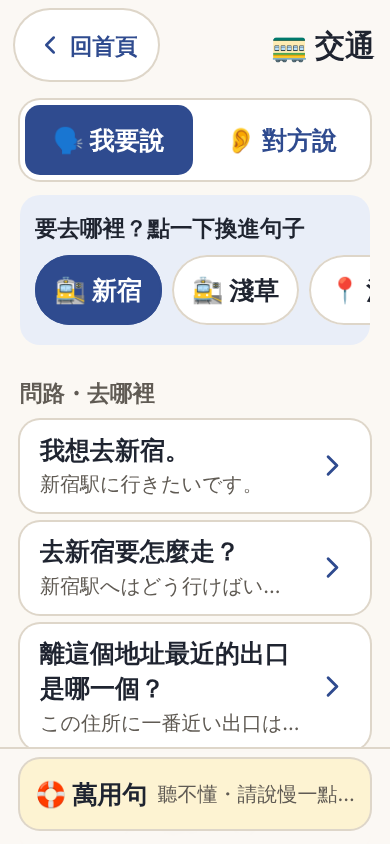
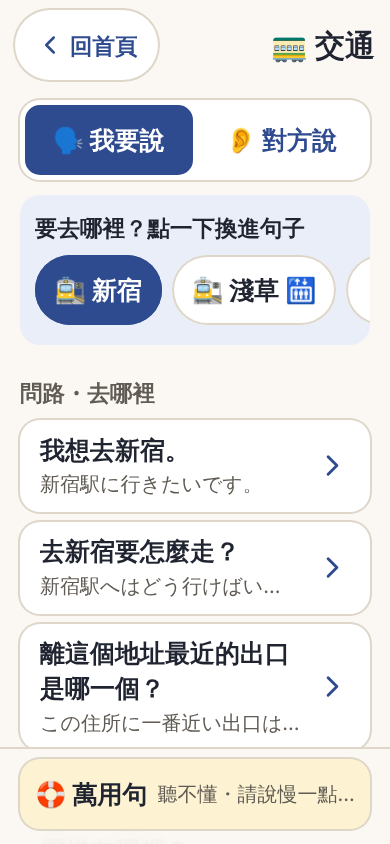
Elevator phrases and per-station elevator notes
Station elevator maps were weighed and set aside: the data is spread
across operators' Japanese-only pages with no usable open dataset, goes
stale as lifts are added or closed, station plans are hard to read, and
Google Maps already offers wheelchair routes. Instead:

1. Transport gains an 電梯・不走樓梯 group: which exit has a lift (a new
   'exit' answer set: east/west/south/north/central, write it down,
   don't know), the lift to the platform, inside or outside the gates,
   ask staff to take you there; staff lines for 'outside the gates' and
   'out of service'.
2. Each place gets an elevator note (Place.note, wire key 'e'), filled in
   before the trip with tips on where to look it up. When that station
   is picked, the note shows under the picker and can be enlarged for
   station staff under a spoken 「エレベーターを使いたいです」.

Claude-Session: https://claude.ai/code/session_01FL5DYQMe9ZWzkevjtD88Bj

Changed region(s): [[0.7385, 0.3081, 0.9538, 0.4005], [0.7077, 0.3697, 0.7385, 0.4005], [0.7077, 0.2773, 0.7385, 0.3081]]

diff --git a/src/ui/setup.ts b/src/ui/setup.ts
@@ -179,6 +179,34 @@ function hotelRow(hotel: Hotel, save: () => void): HTMLElement[] {
   ];
 }
 
+/**
+ * 電梯筆記: looked up before the trip, shown on the transport page when the
+ * station is picked, and enlarged for station staff.
+ */
+function noteField(place: Place, save: () => void): HTMLElement {
+  const area = h("textarea", {
+    class: `${INPUT} h-28 resize-y`,
+    maxlength: LIMITS.long,
+    placeholder: "例：エレベーターはA3出口（改札外）。ホームへは3番線中央のエレベーター。",
+    oninput: (event: Event) => {
+      place.note = (event.target as HTMLTextAreaElement).value;
+      save();
+    },
+  });
+  area.value = place.note;
+  return h(
+    "label",
+    { class: "block text-lg font-bold" },
+    "🛗 電梯筆記（可不填）",
+    area,
+    h(
+      "span",
+      { class: `${HINT} font-normal` },
+      "哪個出口有電梯、在剪票口內還是外。直接貼上官方網站的日文說明最好，站務員也看得懂。",
+    ),
+  );
+}
+
 function placeRow(place: Place, index: number, save: () => void): HTMLElement[] {
   const name = `place-kind-${index}`;
   const kind = (value: Place["kind"], label: string) =>
@@ -204,6 +232,7 @@ function placeRow(place: Place, index: number, save: () => void): HTMLElement[] 
     field("讀音（可不填）", place.kana, (v) => ((place.kana = v), save()), { lang: "ja", placeholder: "例：しんじゅく" }),
     field("中文名稱", place.zh, (v) => ((place.zh = v), save()), { placeholder: "例：新宿" }),
     field("哪一天去（可不填）", place.date, (v) => ((place.date = v), save()), { type: "date", hint: "當天會排在最前面。" }),
+    noteField(place, save),
   ];
 }
 
@@ -335,7 +364,20 @@ export function renderSetup(root: HTMLElement): void {
     group(
       "places",
       h("p", { class: "text-lg text-muted" }, "「我想去〇〇站」「這班車有停〇〇嗎」會直接用這些名稱，不用打字。"),
-      listEditor({ items: profile.places, noun: "目的地", make: (): Place => ({ kind: "station", name: "", kana: "", zh: "", date: "" }), row: (place, i) => placeRow(place, i, save), onChange: save }),
+      h(
+        "details",
+        { class: "rounded-xl bg-ai-soft p-3" },
+        h("summary", { class: "cursor-pointer text-lg font-bold text-ai" }, "🛗 怎麼查車站的電梯？"),
+        h(
+          "ul",
+          { class: "mt-2 list-disc space-y-1.5 pl-6 text-base leading-relaxed" },
+          h("li", null, "Google 地圖查大眾運輸路線時，在路線「選項」裡勾選輪椅可通行（Wheelchair accessible），會改走有電梯的路線。"),
+          h("li", null, "東京地下鐵（Tokyo Metro）官網每一站都有「Accessibility」頁面，列出電梯在哪個出口、在剪票口內還是外。"),
+          h("li", null, "其他車站可以在 Yahoo!乗換案内 的車站頁面看「バリアフリー」資訊，或到該鐵路公司官網查「駅構内図」。"),
+          h("li", null, "查到後把重點寫進下面每一站的「電梯筆記」；到了日本不用上網也看得到。"),
+        ),
+      ),
+      listEditor({ items: profile.places, noun: "目的地", make: (): Place => ({ kind: "station", name: "", kana: "", zh: "", date: "", note: "" }), row: (place, i) => placeRow(place, i, save), onChange: save }),
     ),
     group(
       "contacts",

diff --git a/src/content/scenes/transport.ts b/src/content/scenes/transport.ts
@@ -7,6 +7,7 @@ export default {
   icon: "🚃",
   groups: [
     { id: "where", title: "問路・去哪裡" },
+    { id: "elevator", title: "電梯・不走樓梯" },
     { id: "train", title: "月台・搭車" },
     { id: "ticket", title: "車票・閘門・坐過站" },
     { id: "bus-taxi", title: "公車・計程車" },
@@ -151,10 +152,43 @@ export default {
     },
     {
       id: "transport-elevator",
-      group: "where",
+      group: "elevator",
       zh: "電梯在哪裡？",
       jp: "エレベーター は どこ です か。",
       answers: "direction",
+    },
+    {
+      id: "transport-elevator-exit",
+      group: "elevator",
+      zh: "哪個出口有電梯？",
+      jp: "エレベーター が ある {出口|でぐち} は どこ です か。",
+      answers: "exit",
+    },
+    {
+      id: "transport-elevator-platform",
+      group: "elevator",
+      zh: "到月台的電梯在哪裡？",
+      jp: "ホーム へ の エレベーター は どこ です か。",
+      answers: "direction",
+    },
+    {
+      id: "transport-elevator-gate",
+      group: "elevator",
+      zh: "電梯在剪票口裡面還是外面？",
+      jp: "エレベーター は {改札|かいさつ} の {中|なか} です か、{外|そと} です か。",
+      tip: "很多車站的電梯分成剪票口內、外兩段，出站前先問清楚。",
+      answers: [
+        { jp: "{改札|かいさつ} の {中|なか}", zh: "在剪票口裡面" },
+        { jp: "{改札|かいさつ} の {外|そと}", zh: "在剪票口外面" },
+        { jp: "わかりません", zh: "不知道" },
+      ],
+    },
+    {
+      id: "transport-elevator-escort",
+      group: "elevator",
+      zh: "可以請站務員帶我去搭電梯嗎？",
+      jp: "{駅員|えきいん} さん に エレベーター まで {案内|あんない} して いただけます か。",
+      answers: "yesNo",
     },
     {
       id: "transport-bus-stop",
@@ -224,6 +258,24 @@ export default {
     },
   ],
   heard: [
+    {
+      id: "transport-heard-elevator-outside",
+      jp: "エレベーター は {改札|かいさつ} の {外|そと} に あります。",
+      zh: "電梯在剪票口外面。",
+      replies: [
+        { jp: "わかりました。", zh: "知道了" },
+        { jp: "{一度|いちど} {改札|かいさつ} を {出|で}て も いい です か。", zh: "我可以先出站再進來嗎？" },
+      ],
+    },
+    {
+      id: "transport-heard-elevator-closed",
+      jp: "エレベーター は {今|いま} {使|つか}えません。",
+      zh: "電梯現在不能用（維修或施工中）。",
+      replies: [
+        { jp: "{他|ほか} の エレベーター は あります か。", zh: "有別的電梯嗎？" },
+        { jp: "エスカレーター は あります か。", zh: "有手扶梯嗎？" },
+      ],
+    },
     {
       id: "transport-heard-where-to",
       jp: "どちら まで です か。",

diff --git a/src/ui/scene.ts b/src/ui/scene.ts
@@ -3,6 +3,7 @@ import { RESCUE } from "../content/rescue";
 import { sceneById } from "../content/scenes";
 import type { Heard, Phrase, Scene } from "../content/types";
 import { plain, slotsOf } from "../lib/jp";
+import { LINES } from "../profile/cards";
 import { type Ready, ready } from "../profile/fill";
 import { loadProfile, type Place, placesForToday } from "../profile/profile";
 import { fill, h, icon } from "./dom";
@@ -163,6 +164,31 @@ function rescueDock(): HTMLElement[] {
 }
 
 /** Big buttons for the saved destinations; the picked one fills every 〇〇. */
+/** The picked station's 電梯筆記, ready to enlarge for station staff. */
+function elevatorNote(place: Place): HTMLElement {
+  return h(
+    "div",
+    { class: "mt-3 rounded-xl bg-card p-3 ring-2 ring-hair" },
+    h("p", { class: "text-lg font-bold" }, `🛗 ${place.zh || place.name} 的電梯筆記`),
+    h("p", { class: "mt-1 whitespace-pre-line break-words text-lg" }, place.note),
+    h(
+      "button",
+      {
+        type: "button",
+        class: "mt-2 inline-flex min-h-12 items-center gap-2 rounded-full bg-ai px-4 text-lg font-bold text-on-accent active:scale-95",
+        // The note is shown as typed (it may not be Japanese); the line above it is what gets read out.
+        onclick: () =>
+          showToOther(
+            [{ jp: LINES.wantElevator, zh: "我想搭電梯（下面是事先查好的電梯資訊）", extra: place.note.split(/\n+/).filter(Boolean) }],
+            "電梯筆記",
+          ),
+      },
+      icon("expand", "h-5 w-5"),
+      "放大給站務員看",
+    ),
+  );
+}
+
 function placePicker(places: Place[], picked: Place | null, pick: (place: Place) => void): HTMLElement {
   return h(
     "div",
@@ -183,10 +209,11 @@ function placePicker(places: Place[], picked: Place | null, pick: (place: Place)
             }`,
             onclick: () => pick(place),
           },
-          `${place.kind === "station" ? "🚉" : "📍"} ${place.zh || place.name}`,
+          `${place.kind === "station" ? "🚉" : "📍"} ${place.zh || place.name}${place.note ? " 🛗" : ""}`,
         ),
       ),
     ),
+    picked?.note && elevatorNote(picked),
   );
 }
 

diff --git a/tests/fixtures.ts b/tests/fixtures.ts
@@ -26,7 +26,14 @@ export function sampleProfile(): Profile {
     ],
     places: [
       { kind: "station", name: "新宿", kana: "しんじゅく", zh: "新宿", date: "2026-11-02" },
-      { kind: "station", name: "浅草", kana: "あさくさ", zh: "淺草", date: "2026-11-03" },
+      {
+        kind: "station",
+        name: "浅草",
+        kana: "あさくさ",
+        zh: "淺草",
+        date: "2026-11-03",
+        note: "エレベーターは4番出口（改札外）。銀座線ホームへは改札内のエレベーター。",
+      },
       { kind: "place", name: "浅草寺", kana: "せんそうじ", zh: "淺草寺", date: "2026-11-03" },
       { kind: "station", name: "上野", kana: "うえの", zh: "上野", date: "2026-11-04" },
       { kind: "station", name: "京都", kana: "きょうと", zh: "京都", date: "2026-11-05" },

diff --git a/src/content/replies.ts b/src/content/replies.ts
@@ -57,6 +57,17 @@ export const REPLY_SETS: Record<ReplySet, Reply[]> = {
     { jp: "ありません", zh: "沒有" },
     DONT_KNOW,
   ],
+  // Exits are named by direction at most stations; numbered exits (A3…) vary too much to list,
+  // so the other person can write the name instead.
+  exit: [
+    { jp: "{東口|ひがしぐち}", zh: "東口" },
+    { jp: "{西口|にしぐち}", zh: "西口" },
+    { jp: "{南口|みなみぐち}", zh: "南口" },
+    { jp: "{北口|きたぐち}", zh: "北口" },
+    { jp: "{中央口|ちゅうおうぐち}", zh: "中央口" },
+    { jp: "{紙|かみ} に {書|か}きます", zh: "對方會寫給你看（請準備紙筆）" },
+    DONT_KNOW,
+  ],
 };
 
 

diff --git a/tests/cards.test.ts b/tests/cards.test.ts
@@ -44,7 +44,7 @@ describe("help card", () => {
 
 describe("place names in phrases", () => {
   it("adds 駅 to stations only when asked", () => {
-    const shinjuku = { kind: "station" as const, name: "新宿駅", kana: "しんじゅくえき", zh: "新宿", date: "" };
+    const shinjuku = { kind: "station" as const, name: "新宿駅", kana: "しんじゅくえき", zh: "新宿", date: "", note: "" };
     expect(placeWord(shinjuku, true)).toBe("{新宿|しんじゅく}{駅|えき}");
     expect(placeWord(shinjuku, false)).toBe("{新宿|しんじゅく}");
     expect(placeWord({ ...shinjuku, kind: "place", name: "浅草寺", kana: "" }, true)).toBe("浅草寺");

diff --git a/src/profile/profile.ts b/src/profile/profile.ts
@@ -43,6 +43,12 @@ export interface Place {
   zh: string;
   /** YYYY-MM-DD or "". */
   date: string;
+  /**
+   * Elevator notes looked up before the trip, e.g. which exit has a lift and
+   * whether it is inside the gates. Best pasted in Japanese from the
+   * station's own page, so station staff can read it too.
+   */
+  note: string;
 }
 
 export interface Contact {
@@ -166,6 +172,7 @@ export function parseProfile(data: unknown): Profile {
       kana: str(p.kana),
       zh: str(p.zh),
       date: date(p.date),
+      note: str(p.note, LIMITS.long),
     };
     return place.name ? place : null;
   });

diff --git a/src/profile/cards.ts b/src/profile/cards.ts
@@ -26,6 +26,7 @@ export const LINES = {
   callLocal: "{日本|にほん} に いる {知|し}り{合|あ}い です。{電話|でんわ} を して いただけません か。",
   koban: "{近|ちか}く の {交番|こうばん} は どこ です か。",
   callPolice: "{警察|けいさつ} を {呼|よ}んで ください。",
+  wantElevator: "エレベーター を {使|つか}いたい です。",
 } satisfies Record<string, Jp>;
 
 /** Japanese for the name a phrase slot shows: 新宿 → 新宿駅 for a station when `withEki`. */

diff --git a/tests/profile.test.ts b/tests/profile.test.ts
@@ -14,7 +14,7 @@ describe("parseProfile", () => {
       birthYear: 1800,
     });
     expect(profile.hotels).toEqual([{ name: "A", kana: "", address: "", phone: "", from: "", to: "" }]);
-    expect(profile.places).toEqual([{ kind: "station", name: "新宿", kana: "", zh: "", date: "" }]);
+    expect(profile.places).toEqual([{ kind: "station", name: "新宿", kana: "", zh: "", date: "", note: "" }]);
     expect(profile.birthYear).toBeNull();
   });
 

diff --git a/src/share/codec.ts b/src/share/codec.ts
@@ -29,7 +29,7 @@ const KEYS: KeyMap = {
   passportName: "p",
   birthYear: "y",
   hotels: ["h", { name: "n", kana: "k", address: "a", phone: "t", from: "f", to: "o" }],
-  places: ["d", { kind: "s", name: "n", kana: "k", zh: "z", date: "d" }],
+  places: ["d", { kind: "s", name: "n", kana: "k", zh: "z", date: "d", note: "e" }],
   contacts: ["c", CONTACT],
   localContact: ["l", CONTACT],
   health: [

diff --git a/src/content/types.ts b/src/content/types.ts
@@ -18,7 +18,7 @@ export interface Reply {
 }
 
 /** Ready-made answer sets, so common questions need not repeat them. */
-export type ReplySet = "yesNo" | "platform" | "direction" | "time" | "place";
+export type ReplySet = "yesNo" | "platform" | "direction" | "time" | "place" | "exit";
 
 /** Something the traveller needs to say. */
 export interface Phrase {

diff --git a/docs/spec.md b/docs/spec.md
@@ -533,3 +533,15 @@ docs/spec.md
 - 不走樓梯的路、借輪椅
 
 情境句數因此超過原本「每個情境約 12～20 句」的目標。超過 20 句的情境改用小標分組：交通、餐廳（過敏・素食排第一組）、緊急・醫療（身體不舒服／遺失・被偷／走散／災害）。
+
+## 14. 電梯（2026-10-11）
+
+評估後決定**不做站內電梯地圖**，原因有四：
+- 資料分散在各鐵路公司，大多只有日文網頁，沒有可以直接使用的開放資料。
+- 電梯會增設、也會停用維修，內建的資料一定會過期。
+- 站內圖對不熟的人很難讀。
+- Google 地圖已經有輪椅路線可以用。
+
+改做兩件事：
+1. **電梯問句**：交通新增「電梯・不走樓梯」分組，有這幾句：哪個出口有電梯（`exit` 答案組：東／西／南／北／中央口、寫在紙上、不知道）、到月台的電梯在哪、電梯在剪票口內還是外、請站務員帶我去。「對方說」新增「電梯在剪票口外」「電梯現在不能用」。
+2. **電梯筆記**：每個目的地新增 `Place.note`（分享連結的 wire key 是 `e`）。家人出發前查好填入，設定頁有查詢方法。交通頁選到那一站時，筆記會出現在選站列下方；也可以放大給站務員看，畫面上方會先念「エレベーターを使いたいです」，下面顯示筆記原文。
